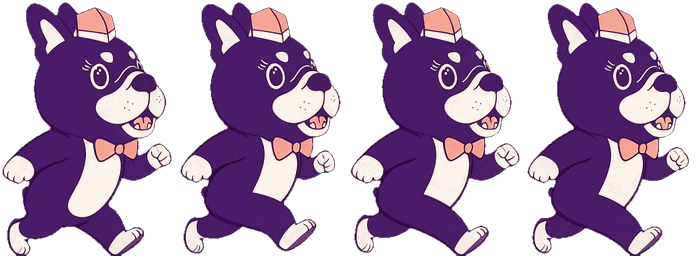
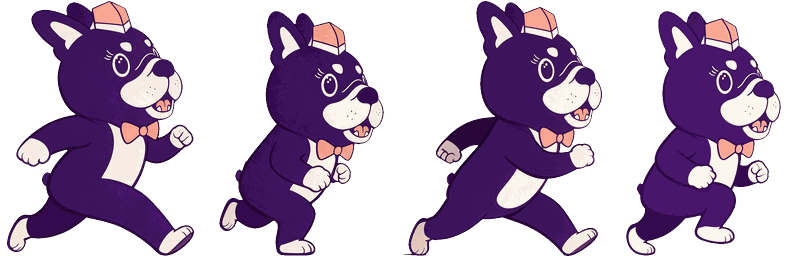
Lupita corre con 4 poses distintas
Reemplaza la animación de correr por 4 poses nuevas (zancada y piernas
juntas, alternadas), emparejadas en tamaño. Las poses con piernas
juntas quedan un poco más bajas para dar el rebote natural.

Claude-Session: https://claude.ai/code/session_01LKeRCaGjmvVzaiGcHHrTPL

diff --git a/juego.js b/juego.js
@@ -554,11 +554,11 @@
     ctx.fill();
 
     const cuadro = Math.floor(p.cuadro);
-    const bote = estado === "jugando" && p.enPiso ? Math.abs(Math.sin(p.cuadro * Math.PI / 2)) * 4 : 0;
+    const bote = estado === "jugando" && p.enPiso ? Math.abs(Math.sin(p.cuadro * Math.PI / 2)) * 2 : 0;
     const listo = muerta ? sprite("lupita-choque", 0, x - 4, y, w + 8, h)
       : estado === "inicio" ? sprite("lupita-base", 0, x, y, w, h)
       : !p.enPiso ? sprite("lupita-salto", 0, x - 6, y, w + 12, h)
-      : sprite("lupita-correr", cuadro, x, y - bote, w, h);
+      : sprite("lupita-correr", cuadro, x - 10, y - bote, w + 20, h);
 
     if (!listo) lupitaProvisional(x, y, cuadro, muerta);
     ctx.globalAlpha = 1;

diff --git a/juego.html b/juego.html
@@ -122,6 +122,6 @@
   </div>
 </div>
 
-<script src="juego.js?v=3"></script>
+<script src="juego.js?v=4"></script>
 </body>
 </html>
